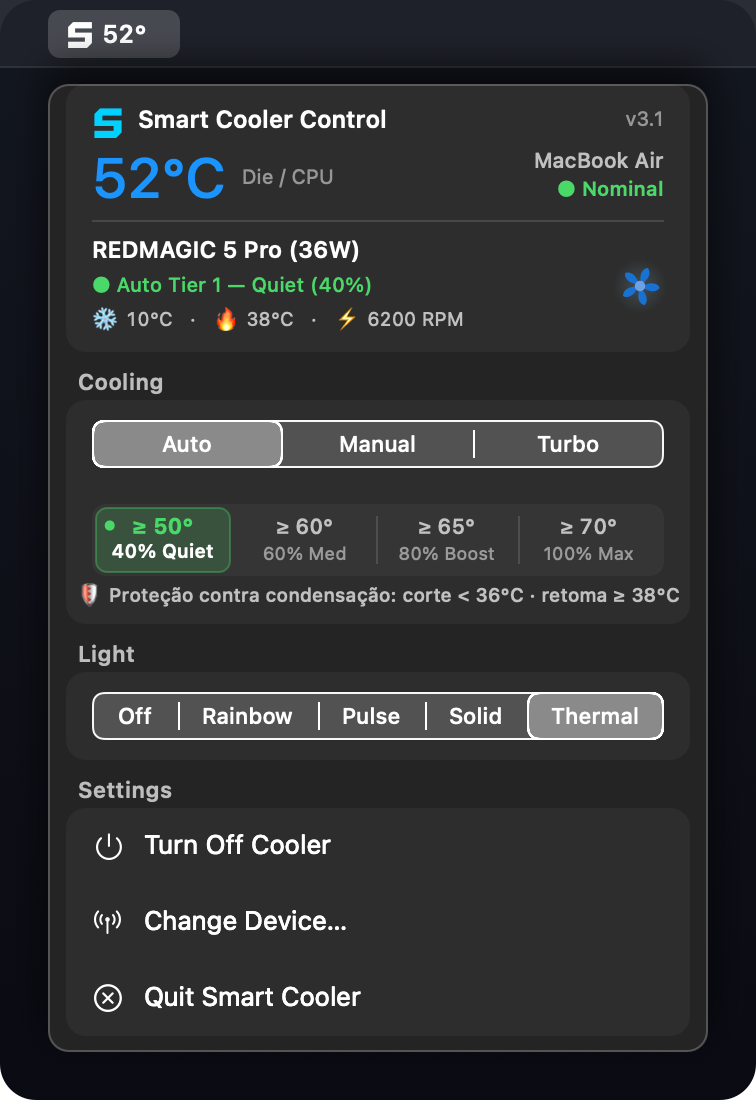
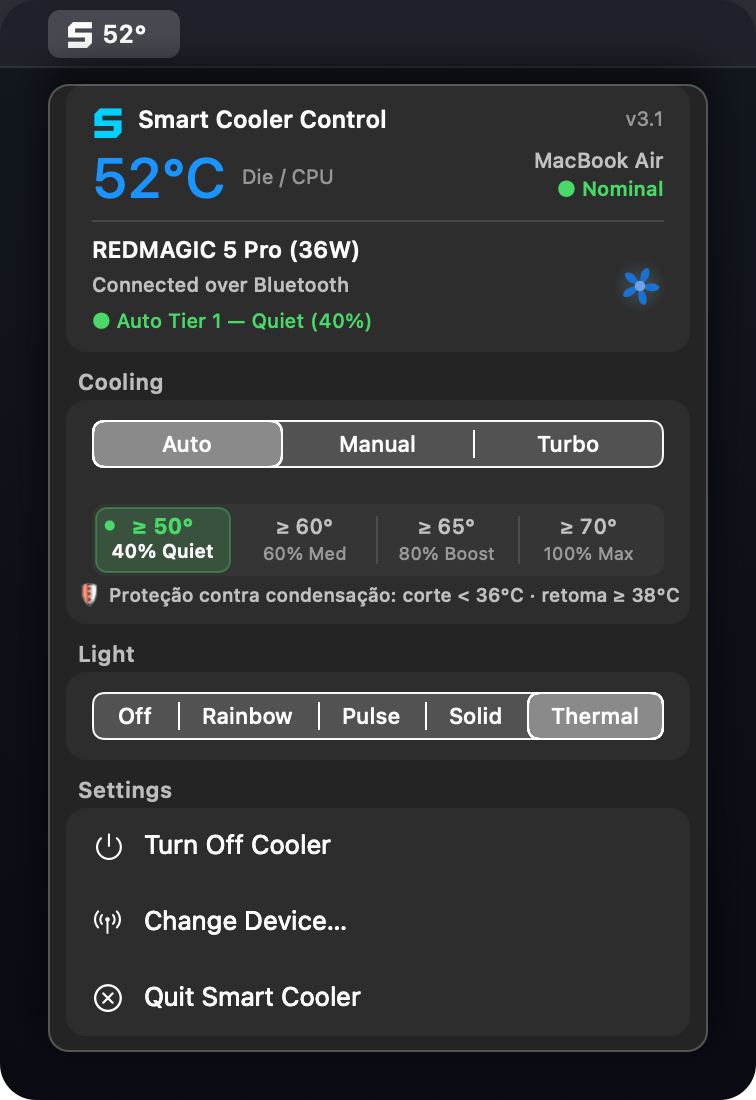
fix(ui, docs): remove mock telemetry row and restore authentic connection and operational status

Changed region(s): [[0.1217, 0.2473, 0.6085, 0.3091]]

diff --git a/src-swift/UI/CoolerPanelView.swift b/src-swift/UI/CoolerPanelView.swift
@@ -211,46 +211,16 @@ final class CoolerPanelView: PanelRowView {
                           zone: runningZone)
         }
 
-        // 2. Status Line (y = 26)
-        let statusY: CGFloat = 26
-        let statusText: String
-        let statusColor: NSColor
-        if model.isConnected {
-            if let detail = model.statusDetail {
-                statusText = "● \(detail)"
-                statusColor = model.mode.isOn ? .systemGreen : .secondaryLabelColor
-            } else if model.mode.isOn {
-                statusText = "● Ativo (\(model.fanPercent)% RPM)"
-                statusColor = .systemGreen
-            } else {
-                statusText = "○ Standby"
-                statusColor = .tertiaryLabelColor
-            }
-        } else {
-            statusText = model.phase.statusText
-            statusColor = phaseColor()
-        }
+        // 2. Connection Line (y = 26)
+        let connY: CGFloat = 26
+        let connText = model.isConnected ? "Connected over Bluetooth" : model.phase.statusText
+        let connColor = model.isConnected ? NSColor.secondaryLabelColor : phaseColor()
+        let maxConnWidth = model.isConnected ? (bounds.width - pad * 2 - Self.fanSize - 12) : (connectButton.frame.minX - pad - 8)
+        let connAttr = UIStyle.text(connText, Self.statusFont, connColor)
+        connAttr.draw(in: NSRect(x: pad, y: connY, width: max(maxConnWidth, 1), height: 15))
 
-        let maxStatusWidth = model.isConnected ? (bounds.width - pad * 2 - Self.fanSize - 12) : (connectButton.frame.minX - pad - 8)
-        let statusAttr = UIStyle.text(statusText, Self.statusFont, statusColor)
-        statusAttr.draw(in: NSRect(x: pad, y: statusY, width: max(maxStatusWidth, 1), height: 15))
-
-        // 3. Telemetry or Note Line (y = 44)
+        // 3. Operational State or Note Line (y = 44)
         let bottomY: CGFloat = 44
-        if let telemetry = model.telemetry {
-            var parts: [String] = []
-            if telemetry.coldC > 0 { parts.append("❄ \(telemetry.coldC)°C") }
-            if telemetry.hotC > 0  { parts.append("🔥 \(telemetry.hotC)°C") }
-            if let rpm = telemetry.fanRPM, rpm > 0 { parts.append("⚡ \(rpm) RPM") }
-
-            if !parts.isEmpty {
-                let strip = parts.joined(separator: "   ·   ")
-                UIStyle.text(strip, Self.telemetryFont, .secondaryLabelColor)
-                    .draw(at: NSPoint(x: pad, y: bottomY))
-                return
-            }
-        }
-
         if let note = model.note {
             var x = pad
             if let noteSymbol {
@@ -263,9 +233,23 @@ final class CoolerPanelView: PanelRowView {
             }
             UIStyle.text(note.text, Self.noteFont, note.tint)
                 .draw(in: NSRect(x: x, y: bottomY, width: max(bounds.width - x - pad - (model.isConnected ? Self.fanSize + 8 : 0), 1), height: 14))
-        } else if model.isConnected && !model.mode.isOn {
-            UIStyle.text("🛡 Proteção anticondensação ativa (< 36°C)", Self.noteFont, .tertiaryLabelColor)
-                .draw(at: NSPoint(x: pad, y: bottomY))
+        } else if model.isConnected {
+            let opText: String
+            let opColor: NSColor
+            if let detail = model.statusDetail {
+                opText = detail
+                opColor = model.mode.isOn ? .systemGreen : .secondaryLabelColor
+            } else if model.mode.isOn {
+                opText = "Ativo (\(model.fanPercent)%)"
+                opColor = .systemGreen
+            } else {
+                opText = "Standby"
+                opColor = .tertiaryLabelColor
+            }
+            let dot = model.mode.isOn ? "● " : "○ "
+            let maxOpWidth = bounds.width - pad * 2 - Self.fanSize - 12
+            UIStyle.text("\(dot)\(opText)", Self.statusFont, opColor)
+                .draw(in: NSRect(x: pad, y: bottomY, width: max(maxOpWidth, 1), height: 14))
         }
     }
 

diff --git a/tools/generate_screenshots.swift b/tools/generate_screenshots.swift
@@ -220,7 +220,7 @@ final class HeroBannerView: NSView {
             isConnected: true,
             phase: .ready,
             deviceModelName: "REDMAGIC Magnetic Cooler 5 Pro (36W)",
-            telemetry: CoolerTelemetry(coldC: 10, hotC: 38, ambientC: 24, fanRPM: 6200),
+            telemetry: nil,
             mode: .low,
             fanPercent: 40,
             statusDetail: "Auto Tier 1 — Quiet (40%)",
@@ -486,7 +486,7 @@ func buildAutoScreenshot(width: CGFloat) -> NSView {
         isConnected: true,
         phase: .ready,
         deviceModelName: "REDMAGIC Magnetic Cooler 5 Pro (36W)",
-        telemetry: CoolerTelemetry(coldC: 10, hotC: 38, ambientC: 24, fanRPM: 6200),
+        telemetry: nil,
         mode: .low,
         fanPercent: 40,
         statusDetail: "Auto Tier 1 — Quiet (40%)",
@@ -541,10 +541,10 @@ func buildTurboScreenshot(width: CGFloat) -> NSView {
         isConnected: true,
         phase: .ready,
         deviceModelName: "REDMAGIC VC Cooler 6 Pro+ (40W)",
-        telemetry: CoolerTelemetry(coldC: -2, hotC: 48, ambientC: 25, fanRPM: 9600),
+        telemetry: nil,
         mode: .max,
         fanPercent: 100,
-        statusDetail: "Turbo Boost (100%) — Peak Defense",
+        statusDetail: "Turbo Boost (100%)",
         deviceLooksPoweredOff: false,
         note: nil
     ))
@@ -595,7 +595,7 @@ func buildManualScreenshot(width: CGFloat) -> NSView {
         isConnected: true,
         phase: .ready,
         deviceModelName: "Black Shark MagCooler 5 Pro (35W)",
-        telemetry: CoolerTelemetry(coldC: 6, hotC: 42, ambientC: 24, fanRPM: 7800),
+        telemetry: nil,
         mode: .medium,
         fanPercent: 80,
         statusDetail: "Manual Cooling (80%)",
